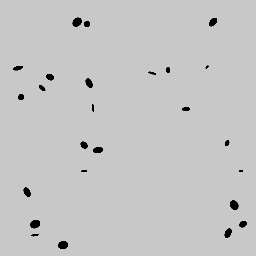
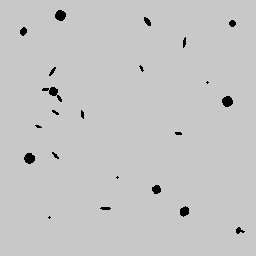
changes

diff --git a/Code/final_draw_pore.py b/Code/final_draw_pore.py
@@ -4,6 +4,8 @@ import numpy as np
 import random
 
 # ----------------------- Configuration -----------------------
+CLASS_3_COLOR = (64, 64, 64)
+CIRCLE_THICKNESS = 1
 MIN_PORE_RADIUS = 1
 MAX_PORE_RADIUS = 5
 MIN_TOTAL_PORES = 15
@@ -12,22 +14,17 @@ MIN_CLUSTERS = 2
 MAX_CLUSTERS = 3
 MIN_DISTANCE_BETWEEN_CLUSTER_PORES = 8
 MIN_DISTANCE_BETWEEN_SCATTERED_PORES = 5
-MIN_DISTANCE_BETWEEN_CLUSTERS = 40
 PORE_CLASS_ID = 0
 PORE_NEST_CLASS_ID = 1
 CLUSTER_PADDING = 10
 PORE_PADDING = 5
-POLYGON_EDGE_BUFFER = 3
+MIN_DISTANCE_BETWEEN_CLUSTERS = 40
+MIN_EDGE_DISTANCE = 3
 
 # ----------------------- Helper Functions -----------------------
 def is_point_inside_polygon(point, polygon):
     polygon = np.array(polygon, dtype=np.int32).reshape((-1, 1, 2))
     return cv2.pointPolygonTest(polygon, tuple(map(float, point)), False) >= 0
-
-def is_point_far_from_polygon_edges(point, polygon, buffer):
-    contour = np.array(polygon, dtype=np.int32).reshape((-1, 2))
-    distances = np.linalg.norm(contour - np.array(point), axis=1)
-    return np.all(distances > buffer)
 
 def convert_to_yolo_bbox(x, y, w, h, image_w, image_h):
     return x / image_w, y / image_h, (2 * w) / image_w, (2 * h) / image_h
@@ -36,21 +33,20 @@ def save_yolo_labels(output_labels_dir, image_name, labels):
     label_file = os.path.join(output_labels_dir, os.path.splitext(image_name)[0] + ".txt")
     with open(label_file, "w") as f:
         for label in labels:
-            f.write(f"{label[0]} {label[1]:.6f} {label[2]:.6f} {label[3]:.6f} {label[4]:.6f}\n")
+            f.write(f"{label[0]} {label[1]:.6f} {label[2]:.6f} {label[3]:.6f} {label[4]:.6f}\\n")
 
 def are_clusters_far_enough(new_center, existing_centers, min_distance):
-    return all(np.linalg.norm(np.array(new_center) - np.array(center)) >= min_distance for center in existing_centers)
+    for center in existing_centers:
+        if np.linalg.norm(np.array(new_center) - np.array(center)) < min_distance:
+            return False
+    return True
 
 def draw_pore(image, x, y, w, h, angle):
-    scale = 4
-    img_h, img_w = image.shape[:2]
-    up_w, up_h = img_w * scale, img_h * scale
-    mask = np.ones((up_h, up_w, 3), dtype=np.uint8) * 255
-    cx, cy = x * scale, y * scale
-    rw, rh = w * scale, h * scale
-    cv2.ellipse(mask, (cx, cy), (rw, rh), angle, 0, 360, (0, 0, 0), -1)
-    mask = cv2.resize(mask, (img_w, img_h), interpolation=cv2.INTER_AREA)
-    image[:] = cv2.subtract(image, 255 - mask)
+    if w < 3 and h < 3:
+        radius = max(1, min(w, h))
+        cv2.circle(image, (x, y), radius, (0, 0, 0), -1)
+    else:
+        cv2.ellipse(image, (x, y), (w, h), angle, 0, 360, (0, 0, 0), -1)
 
 # ----------------------- Pore and Cluster Generation -----------------------
 def generate_balanced_pores_with_labels(polygon, img_shape):
@@ -65,7 +61,6 @@ def generate_balanced_pores_with_labels(polygon, img_shape):
     while len(cluster_centers) < num_clusters:
         cx, cy = random.randint(x_min, x_max), random.randint(y_min, y_max)
         if (is_point_inside_polygon((cx, cy), polygon) and
-            is_point_far_from_polygon_edges((cx, cy), polygon, POLYGON_EDGE_BUFFER) and
             are_clusters_far_enough((cx, cy), cluster_centers, MIN_DISTANCE_BETWEEN_CLUSTERS)):
             cluster_centers.append((cx, cy))
 
@@ -74,48 +69,65 @@ def generate_balanced_pores_with_labels(polygon, img_shape):
     scattered_pore_count = max(5, num_pores - cluster_pore_count)
 
     def is_far_enough(nx, ny, nr, existing, min_dist):
-        return all(np.linalg.norm(np.array([nx, ny]) - np.array([x, y])) >= (max(w, h) + nr + min_dist)
-                   for (x, y, w, h, _) in existing)
+        for (x, y, w, h, _) in existing:
+            if np.linalg.norm(np.array([nx, ny]) - np.array([x, y])) < (max(w, h) + nr + min_dist):
+                return False
+        return True
 
     cluster_pore_positions = [[] for _ in range(num_clusters)]
     cluster_success, total_cluster_attempts = 0, 0
-    while cluster_success < cluster_pore_count and total_cluster_attempts < cluster_pore_count * max_attempts:
+    max_total_cluster_attempts = cluster_pore_count * max_attempts
+
+    while cluster_success < cluster_pore_count and total_cluster_attempts < max_total_cluster_attempts:
         total_cluster_attempts += 1
-        idx = random.randint(0, num_clusters - 1)
-        cx, cy = cluster_centers[idx]
-        angle = random.uniform(0, 360)
-        radius = random.uniform(5, 20)
-        x = int(cx + radius * np.cos(np.deg2rad(angle)))
-        y = int(cy + radius * np.sin(np.deg2rad(angle)))
+        chosen_cluster_idx = random.randint(0, num_clusters - 1)
+        cx, cy = cluster_centers[chosen_cluster_idx]
+        angle_deg = random.uniform(0, 360)
+        angle_rad = np.deg2rad(angle_deg)
+        placement_radius = random.uniform(5, 20)
+        x = int(cx + placement_radius * np.cos(angle_rad))
+        y = int(cy + placement_radius * np.sin(angle_rad))
         w, h = random.randint(MIN_PORE_RADIUS, MAX_PORE_RADIUS), random.randint(MIN_PORE_RADIUS, MAX_PORE_RADIUS)
-        a = random.randint(0, 180)
+        pore_angle = random.randint(0, 180)
+
         if (is_point_inside_polygon((x, y), polygon) and
-            is_point_far_from_polygon_edges((x, y), polygon, POLYGON_EDGE_BUFFER) and
-            is_far_enough(x, y, max(w, h), pores, MIN_DISTANCE_BETWEEN_CLUSTER_PORES)):
-            pores.append((x, y, w, h, a))
-            cluster_pore_positions[idx].append((x, y, w, h))
+            is_far_enough(x, y, max(w, h), pores, MIN_DISTANCE_BETWEEN_CLUSTER_PORES) and
+            MIN_EDGE_DISTANCE < x < img_shape[1] - MIN_EDGE_DISTANCE and
+            MIN_EDGE_DISTANCE < y < img_shape[0] - MIN_EDGE_DISTANCE):
+            pores.append((x, y, w, h, pore_angle))
+            cluster_pore_positions[chosen_cluster_idx].append((x, y, w, h))
             cluster_success += 1
 
-    for cluster in cluster_pore_positions:
-        if cluster:
-            xs, ys, ws, hs = zip(*[(x, y, w, h) for (x, y, w, h) in cluster])
-            min_x, max_x = max(0, min(xs) - max(ws) - CLUSTER_PADDING), min(img_shape[1], max(xs) + max(ws) + CLUSTER_PADDING)
-            min_y, max_y = max(0, min(ys) - max(hs) - CLUSTER_PADDING), min(img_shape[0], max(ys) + max(hs) + CLUSTER_PADDING)
-            cx, cy = (min_x + max_x) / 2, (min_y + max_y) / 2
-            bw, bh = (max_x - min_x) / 2, (max_y - min_y) / 2
-            labels.append((PORE_NEST_CLASS_ID, *convert_to_yolo_bbox(cx, cy, bw, bh, img_shape[1], img_shape[0])))
+    for cluster_pores in cluster_pore_positions:
+        if not cluster_pores:
+            continue
+        xs, ys, ws, hs = zip(*cluster_pores)
+        min_x = max(0, min(xs) - max(ws) - CLUSTER_PADDING)
+        max_x = min(img_shape[1], max(xs) + max(ws) + CLUSTER_PADDING)
+        min_y = max(0, min(ys) - max(hs) - CLUSTER_PADDING)
+        max_y = min(img_shape[0], max(ys) + max(hs) + CLUSTER_PADDING)
+        cx, cy = (min_x + max_x) / 2, (min_y + max_y) / 2
+        cluster_w, cluster_h = max_x - min_x, max_y - min_y
+        bx, by, bw, bh = convert_to_yolo_bbox(cx, cy, cluster_w / 2, cluster_h / 2, img_shape[1], img_shape[0])
+        labels.append((PORE_NEST_CLASS_ID, bx, by, bw, bh))
 
-    scatter_success, scatter_attempts = 0, 0
-    while scatter_success < scattered_pore_count and scatter_attempts < scattered_pore_count * max_attempts:
-        scatter_attempts += 1
+    scatter_success, total_scatter_attempts = 0, 0
+    max_total_scatter_attempts = scattered_pore_count * max_attempts
+
+    while scatter_success < scattered_pore_count and total_scatter_attempts < max_total_scatter_attempts:
+        total_scatter_attempts += 1
         x, y = random.randint(x_min, x_max), random.randint(y_min, y_max)
         w, h, angle = random.randint(MIN_PORE_RADIUS, MAX_PORE_RADIUS), random.randint(MIN_PORE_RADIUS, MAX_PORE_RADIUS), random.randint(0, 180)
+
         if (is_point_inside_polygon((x, y), polygon) and
-            is_point_far_from_polygon_edges((x, y), polygon, POLYGON_EDGE_BUFFER) and
-            is_far_enough(x, y, max(w, h), pores, MIN_DISTANCE_BETWEEN_SCATTERED_PORES + MAX_PORE_RADIUS)):
+            is_far_enough(x, y, max(w, h), pores, MIN_DISTANCE_BETWEEN_SCATTERED_PORES + MAX_PORE_RADIUS) and
+            MIN_EDGE_DISTANCE < x < img_shape[1] - MIN_EDGE_DISTANCE and
+            MIN_EDGE_DISTANCE < y < img_shape[0] - MIN_EDGE_DISTANCE):
             pores.append((x, y, w, h, angle))
-            padded_w, padded_h = w + PORE_PADDING, h + PORE_PADDING
-            labels.append((PORE_CLASS_ID, *convert_to_yolo_bbox(x, y, padded_w, padded_h, img_shape[1], img_shape[0])))
+            padded_w = w + PORE_PADDING
+            padded_h = h + PORE_PADDING
+            bx, by, bw, bh = convert_to_yolo_bbox(x, y, padded_w, padded_h, img_shape[1], img_shape[0])
+            labels.append((PORE_CLASS_ID, bx, by, bw, bh))
             scatter_success += 1
 
     return pores, labels
@@ -125,35 +137,37 @@ def visualize_class3_and_annotate(image_dir, annotation_dir, output_images_dir, 
     os.makedirs(output_images_dir, exist_ok=True)
     os.makedirs(output_labels_dir, exist_ok=True)
 
-    for filename in os.listdir(annotation_dir):
-        if not filename.endswith(".txt"):
-            continue
-        img_name = os.path.splitext(filename)[0] + ".jpg"
-        img_path = os.path.join(image_dir, img_name)
-        ann_path = os.path.join(annotation_dir, filename)
-
-        if not os.path.exists(img_path):
-            print(f"Skipping {img_name} (image not found)")
+    for annotation_file in os.listdir(annotation_dir):
+        if not annotation_file.endswith(".txt"):
             continue
 
-        image = cv2.imread(img_path)
+        image_name = os.path.splitext(annotation_file)[0] + ".jpg"
+        image_path = os.path.join(image_dir, image_name)
+        annotation_path = os.path.join(annotation_dir, annotation_file)
+
+        if not os.path.exists(image_path):
+            print(f"Image {image_name} not found. Skipping...")
+            continue
+
+        image = cv2.imread(image_path)
         image = cv2.cvtColor(image, cv2.COLOR_BGR2RGB)
-        labels_all = []
+        label_list = []
 
-        with open(ann_path, 'r') as f:
+        with open(annotation_path, 'r') as f:
             for line in f:
                 if int(line.strip().split()[0]) != 3:
                     continue
                 polygon = list(map(float, line.strip().split()[1:]))
-                points = [(int(polygon[i] * image.shape[1]), int(polygon[i+1] * image.shape[0])) for i in range(0, len(polygon), 2)]
+                points = [(int(polygon[i] * image.shape[1]), int(polygon[i + 1] * image.shape[0])) for i in range(0, len(polygon), 2)]
                 pores, labels = generate_balanced_pores_with_labels(points, image.shape)
-                labels_all.extend(labels)
+                print(f"{image_name} → Generated {len(pores)} pores")
+                label_list.extend(labels)
                 for (x, y, w, h, angle) in pores:
                     draw_pore(image, x, y, w, h, angle)
 
-        cv2.imwrite(os.path.join(output_images_dir, img_name), cv2.cvtColor(image, cv2.COLOR_RGB2BGR))
-        if labels_all:
-            save_yolo_labels(output_labels_dir, img_name, labels_all)
+        cv2.imwrite(os.path.join(output_images_dir, image_name), cv2.cvtColor(image, cv2.COLOR_RGB2BGR))
+        if label_list:
+            save_yolo_labels(output_labels_dir, image_name, label_list)
 
 # ----------------------- Optional Test -----------------------
 if __name__ == '__main__':
